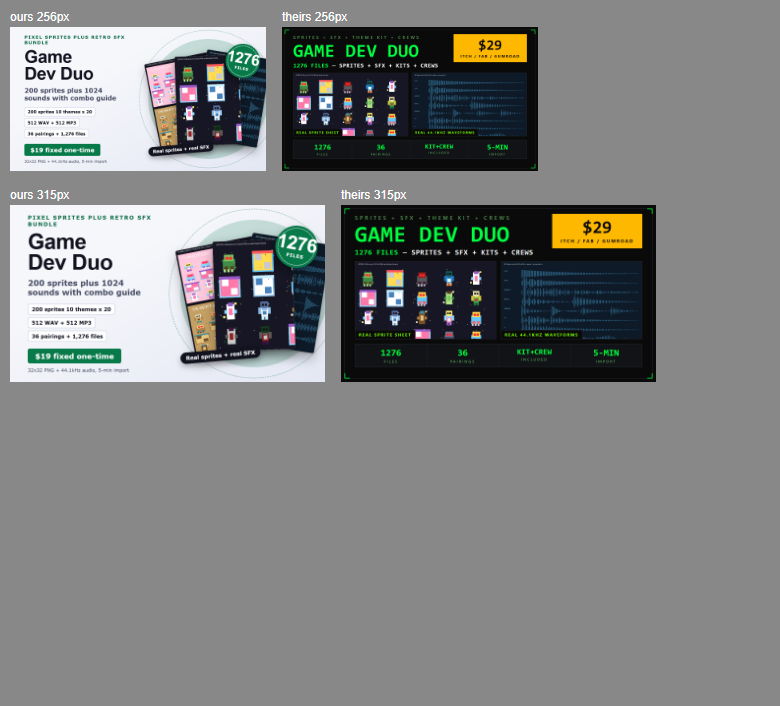
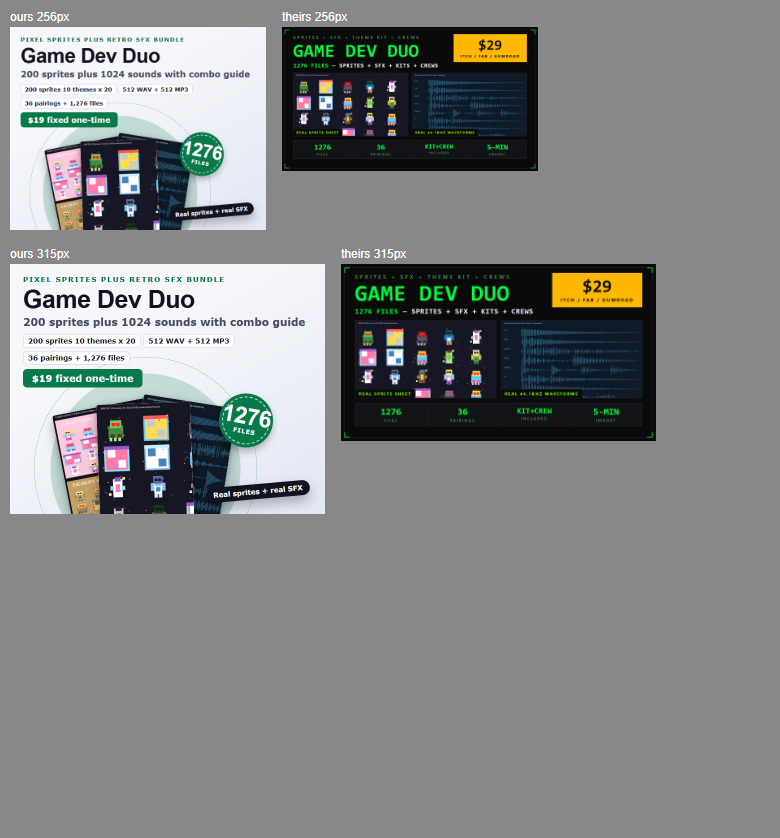
O-063 chain-judge PASS (round 292)
Proof: --built O-063 BUILT PASS 16/16; --verdict O-063 PASS (BEATS 17.6 vs ~12px, PICTURE 3 real screenshots, FACTS listing itch.md, FIT both sizes, LANE toBeat named + from-design-studio landing); sprint/check RESULT PASS 21/0/0; ORDERS PASS 66.

Changed region(s): [[0.0, 0.0, 0.8615, 0.6232]]

diff --git a/designs/O-063/VERDICT.md b/designs/O-063/VERDICT.md
@@ -1,6 +1,6 @@
 VERDICT: PASS O-063
-BEATS: yes (ours 17.6px vs theirs ~12px at 256)
-PICTURE: yes (3 real preview screenshots in assets.json)
-FACTS: yes (all counts/price from listing/itch.md, no engine names/scores/PII)
-FIT: yes (both sizes whole, nothing cut, titles 17.6/20.3px)
-LANE: yes (cover to beat named, landing covers/from-design-studio/O-063/)
+BEATS: yes ours 17.6px vs theirs ~12px at 256
+PICTURE: yes 3 real preview screenshots
+FACTS: yes all from listing/itch.md no engines/scores/PII
+FIT: yes both whole titles 17.6/20.3px
+LANE: yes toBeat named landing covers/from-design-studio/O-063/
